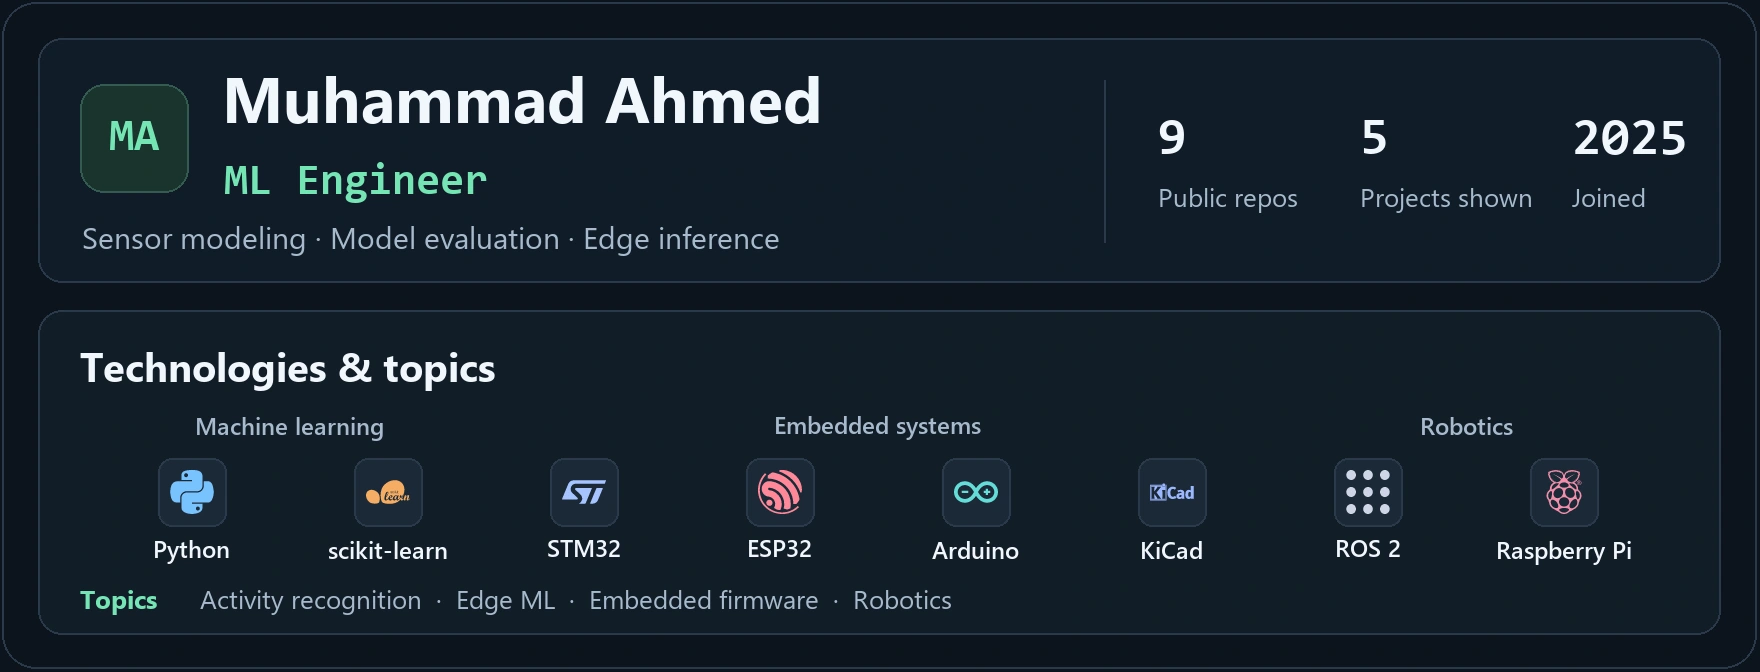
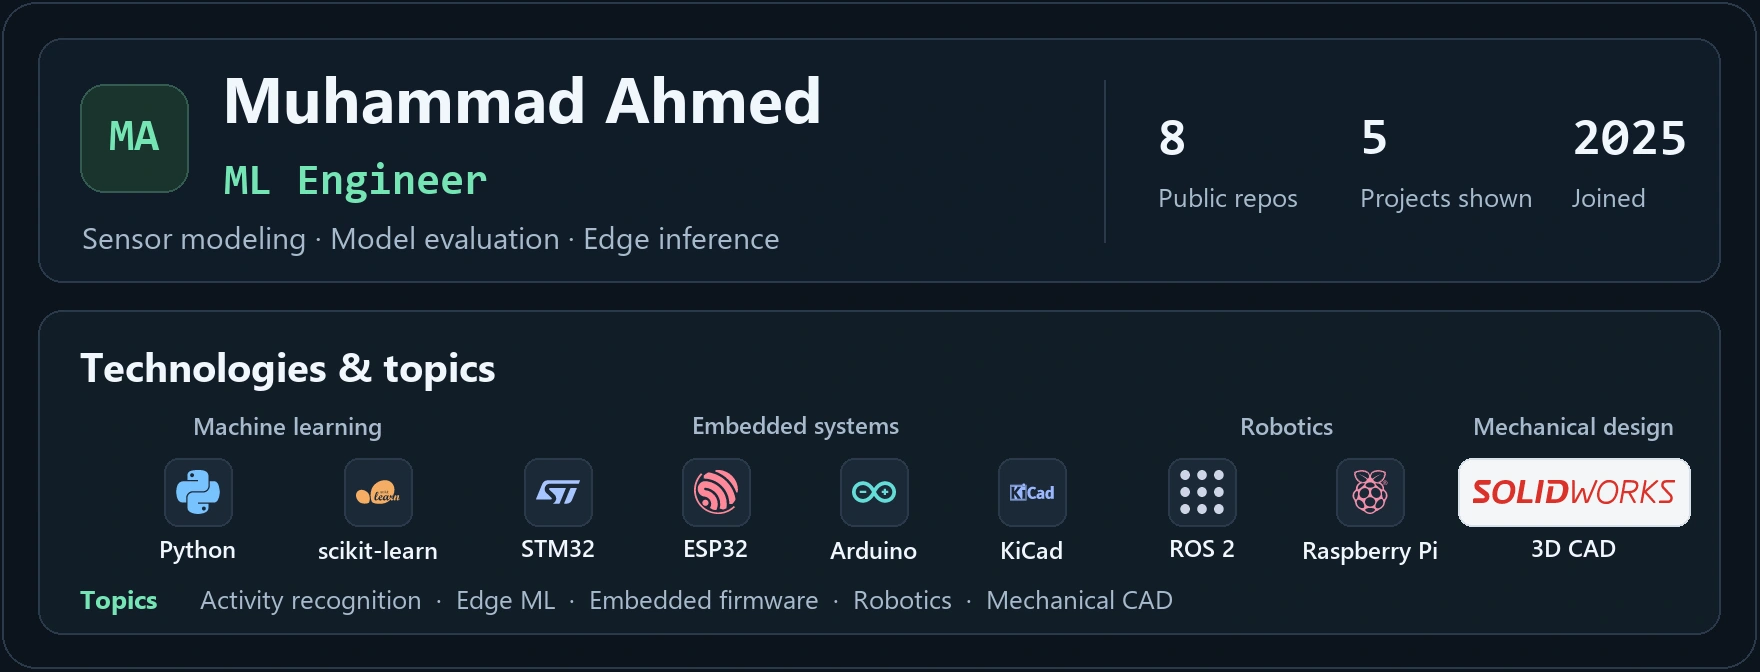
Add mechanical design and SOLIDWORKS to the profile toolkit

diff --git a/README.md b/README.md
@@ -1,11 +1,11 @@
-![Muhammad Ahmed · ML Engineer. Sensor modeling, model evaluation, and edge inference. Nine public repositories, five selected projects, GitHub member since 2025. Machine learning: Python, scikit-learn. Embedded systems: STM32, ESP32, Arduino, KiCad. Robotics: ROS 2, Raspberry Pi. Topics: activity recognition, edge ML, embedded firmware, and robotics.](assets/profile-toolkit.webp)
+![Muhammad Ahmed · ML Engineer. Sensor modeling, model evaluation, and edge inference. Eight public repositories, five selected projects, GitHub member since 2025. Machine learning: Python, scikit-learn. Embedded systems: STM32, ESP32, Arduino, KiCad. Robotics: ROS 2, Raspberry Pi. Mechanical design: SOLIDWORKS. Topics: activity recognition, edge ML, embedded firmware, robotics, and mechanical CAD.](assets/profile-toolkit.webp)
 
 <picture>
   <source media="(prefers-reduced-motion: reduce)" srcset="assets/profile-graphs.webp">
   <img src="assets/profile-graphs.gif" alt="Among five selected projects, Python and C++ appear in three each, and C and Assembly in one each. Three projects focus on robotics, one on firmware, and one on circuit design.">
 </picture>
 
-<!-- Technology icons from https://simpleicons.org/. -->
+<!-- Technology icons from https://simpleicons.org/. SOLIDWORKS wordmark from https://commons.wikimedia.org/wiki/File:SOLIDWORKS_Logo.svg. -->
 
 [LinkedIn](https://www.linkedin.com/in/muhammad-abdulhamid/) · [Email](mailto:muhammad.al.ajami.se@gmail.com) · [All repositories](https://github.com/Muhammad-296?tab=repositories)
 
